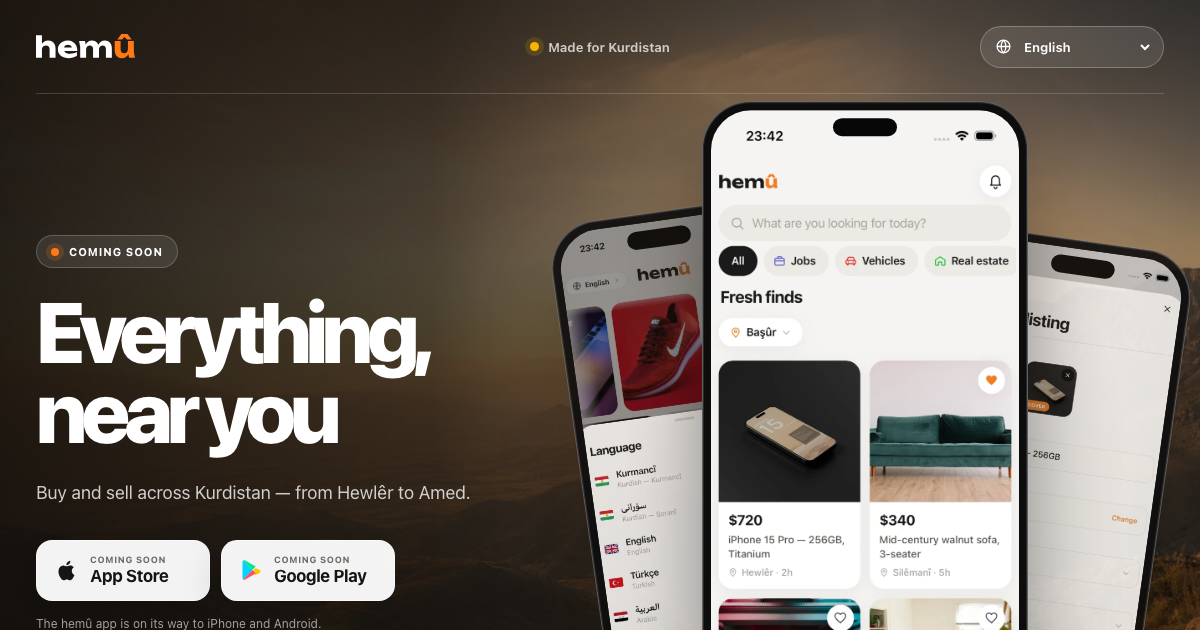
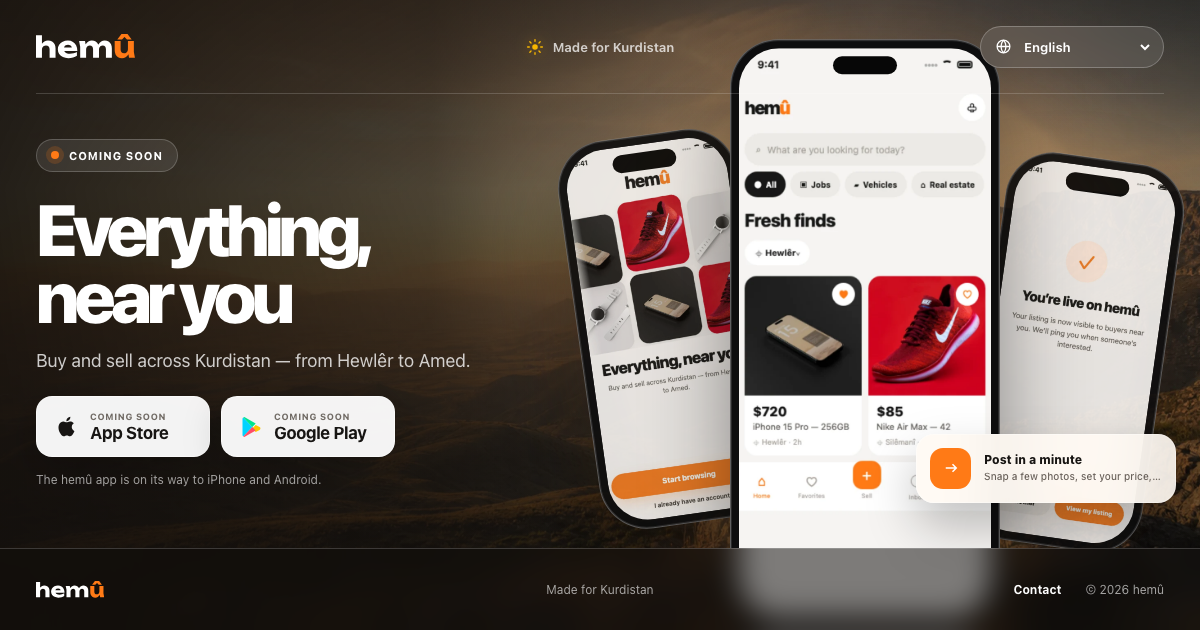
Localize app previews and fit landing page to viewport

diff --git a/src/styles.css b/src/styles.css
@@ -37,10 +37,12 @@ a { color: inherit; }
   margin-inline: auto;
 }
 
+.page,
+.page main { height: 100svh; overflow: hidden; }
+
 .hero {
   position: relative;
-  min-height: 850px;
-  height: max(100svh, 850px);
+  height: 100svh;
   overflow: hidden;
   isolation: isolate;
   color: #fff;
@@ -95,13 +97,7 @@ a { color: inherit; }
   font-weight: 650;
   color: rgba(255,255,255,.74);
 }
-.sun-mark {
-  width: 9px;
-  height: 9px;
-  border-radius: 50%;
-  background: #f6b600;
-  box-shadow: 0 0 0 5px rgba(246,182,0,.14);
-}
+.sun-icon { color: #f6b600; filter: drop-shadow(0 0 7px rgba(246,182,0,.45)); }
 
 .language-control {
   justify-self: end;
@@ -130,7 +126,7 @@ a { color: inherit; }
 .language-control:focus-within { outline: 2px solid var(--accent); outline-offset: 3px; }
 
 .hero-grid {
-  height: calc(100% - 94px - 62px);
+  height: calc(100% - 94px - 82px);
   display: grid;
   grid-template-columns: minmax(400px, .88fr) minmax(520px, 1.12fr);
   gap: clamp(20px, 5vw, 84px);
@@ -207,7 +203,7 @@ a { color: inherit; }
 .product-stage {
   position: relative;
   align-self: stretch;
-  min-height: 650px;
+  min-height: 0;
   direction: ltr;
   animation: stage-in 1.1s .2s cubic-bezier(.2,.7,.2,1) both;
 }
@@ -278,31 +274,24 @@ a { color: inherit; }
 .floating-card small { font-size: 12px; font-weight: 800; }
 .floating-card strong { display: block; overflow: hidden; color: #6a625b; font-size: 10px; line-height: 1.35; font-weight: 500; white-space: nowrap; text-overflow: ellipsis; }
 
-.category-ribbon {
+.hero-footer {
   position: absolute;
-  z-index: 6;
+  z-index: 8;
   inset-inline: 0;
   bottom: 0;
-  height: 62px;
-  overflow: hidden;
+  height: 82px;
   border-top: 1px solid rgba(255,255,255,.18);
-  background: rgba(14,12,10,.35);
+  background: rgba(14,12,10,.52);
   backdrop-filter: blur(15px);
 }
-.ribbon-track { width: max-content; height: 100%; display: flex; align-items: center; animation: ticker 32s linear infinite; }
-.ribbon-track span { display: inline-flex; align-items: center; gap: 12px; padding-inline: 28px; color: rgba(255,255,255,.82); font-size: 13px; font-weight: 700; white-space: nowrap; }
-.ribbon-track i { width: 6px; height: 6px; border-radius: 50%; background: var(--accent); }
-
-footer { background: #1b1815; color: rgba(255,255,255,.62); }
-.footer-inner { min-height: 112px; display: flex; align-items: center; justify-content: space-between; gap: 24px; font-size: 13px; }
+.footer-inner { height: 100%; display: grid; grid-template-columns: 1fr auto 1fr; align-items: center; gap: 24px; color: rgba(255,255,255,.62); font-size: 12px; }
 .footer-inner > div { display: flex; align-items: center; gap: 24px; }
+.footer-inner > div { justify-self: end; }
 .footer-inner a { color: #fff; text-decoration: none; font-weight: 700; }
 
 @keyframes landscape-in { from { opacity: 0; transform: scale(1.05); } }
 @keyframes copy-in { from { opacity: 0; transform: translateY(24px); } }
 @keyframes stage-in { from { opacity: 0; transform: translateY(34px) scale(.97); } }
-@keyframes ticker { to { transform: translateX(-50%); } }
-
 @media (max-width: 1120px) {
   .hero-grid { grid-template-columns: minmax(350px, .9fr) minmax(420px, 1.1fr); }
   .device-main { width: 290px; height: 630px; }
@@ -311,7 +300,7 @@ footer { background: #1b1815; color: rgba(255,255,255,.62); }
 }
 
 @media (max-width: 860px) {
-  .hero { min-height: 1080px; height: auto; }
+  .hero { height: 100svh; }
   .hero-landscape { object-position: 62% center; }
   .hero-wash,
   [dir="rtl"] .hero-wash {
@@ -320,17 +309,18 @@ footer { background: #1b1815; color: rgba(255,255,255,.62); }
   .nav { grid-template-columns: 1fr auto; height: 80px; }
   .nav-note { display: none; }
   .language-control select { max-width: 112px; }
-  .hero-grid { height: auto; grid-template-columns: 1fr; gap: 30px; padding: 64px 0 120px; }
+  .hero-grid { height: calc(100% - 80px - 92px); grid-template-columns: 1fr; grid-template-rows: auto 1fr; gap: 16px; padding: 38px 0 0; }
   .hero-copy { text-align: center; display: flex; flex-direction: column; align-items: center; }
   .hero h1 { max-width: 680px; font-size: clamp(52px, 12vw, 88px); }
   [dir="rtl"] .hero h1 { font-size: clamp(48px, 11vw, 76px); }
   .hero-subtitle { font-size: 18px; }
   .store-buttons { justify-content: center; }
-  .product-stage { min-height: 650px; width: min(100%, 650px); margin-inline: auto; }
+  .product-stage { min-height: 0; height: 100%; width: min(100%, 650px); margin-inline: auto; }
   .device-main { top: 48%; }
   .device-welcome { left: 4%; }
   .device-post { right: 4%; }
-  .floating-card { right: 2%; bottom: 8%; }
+  .floating-card { right: 2%; bottom: 3%; }
+  .hero-footer { height: 92px; }
 }
 
 @media (max-width: 560px) {
@@ -339,23 +329,35 @@ footer { background: #1b1815; color: rgba(255,255,255,.62); }
   .brand svg { width: 102px; height: auto; }
   .language-control { min-height: 39px; padding-inline: 11px 7px; }
   .language-control select { max-width: 92px; font-size: 12px; }
-  .hero { min-height: 1000px; }
-  .hero-grid { padding-top: 48px; gap: 22px; }
-  .launch-pill { margin-bottom: 19px; }
+  .hero-grid { height: calc(100% - 74px - 92px); padding-top: 25px; gap: 8px; }
+  .launch-pill { margin-bottom: 13px; padding: 7px 12px; }
   .hero h1 { font-size: clamp(49px, 15vw, 68px); }
   [dir="rtl"] .hero h1 { font-size: clamp(43px, 12.8vw, 60px); }
-  .hero-subtitle { margin-top: 20px; font-size: 16px; }
-  .store-buttons { gap: 8px; margin-top: 26px; width: 100%; }
-  .store-button { min-width: 0; flex: 1; padding-inline: 12px; }
+  .hero-subtitle { margin-top: 14px; font-size: 15px; line-height: 1.4; }
+  .store-buttons { gap: 8px; margin-top: 17px; width: 100%; }
+  .store-button { min-width: 0; min-height: 54px; flex: 1; padding: 8px 12px; }
   .store-button small { font-size: 8px; }
   .store-button strong { font-size: 14px; }
-  .availability { font-size: 11px; }
-  .product-stage { min-height: 565px; }
-  .device-main { width: 270px; height: 587px; top: 48%; }
+  .availability { display: none; }
+  .product-stage { min-height: 0; height: 100%; }
+  .device-main { width: 204px; height: 443px; top: 50%; }
   .device-back { display: none; }
-  .floating-card { right: -4px; bottom: 7%; width: 220px; }
-  .footer-inner { min-height: 160px; flex-wrap: wrap; padding-block: 30px; }
-  .footer-inner > span { width: 100%; order: 3; }
+  .device { padding: 6px; border-radius: 35px; }
+  .device img { border-radius: 29px; }
+  .device-speaker { top: 12px; width: 48px; height: 14px; }
+  .floating-card { right: 2px; bottom: 0; width: 205px; padding: 9px; }
+  .floating-icon { width: 35px; height: 35px; }
+  .footer-inner { grid-template-columns: 1fr auto; grid-template-rows: 1fr 1fr; gap: 0 16px; padding-block: 11px; }
+  .footer-inner > span { grid-column: 1; grid-row: 2; }
+  .footer-inner > div { grid-column: 2; grid-row: 1 / 3; flex-direction: column; align-items: flex-end; gap: 5px; }
+}
+
+@media (max-height: 760px) and (min-width: 861px) {
+  .hero h1 { font-size: clamp(54px, 6vw, 82px); }
+  .hero-subtitle { margin-top: 18px; }
+  .store-buttons { margin-top: 22px; }
+  .device-main { width: 270px; height: 587px; }
+  .device-back { width: 180px; height: 391px; }
 }
 
 @media (prefers-reduced-motion: reduce) {

diff --git a/src/App.tsx b/src/App.tsx
@@ -1,12 +1,36 @@
 import { useEffect, useState } from 'react';
 
 import landscape from './assets/showcase/kurdistan-landscape.webp';
-import homeScreen from './assets/showcase/home.webp';
-import postScreen from './assets/showcase/post.webp';
-import welcomeScreen from './assets/showcase/welcome.webp';
+import homeAr from './assets/screens/home-ar.webp';
+import homeCkb from './assets/screens/home-ckb.webp';
+import homeEn from './assets/screens/home-en.webp';
+import homeFa from './assets/screens/home-fa.webp';
+import homeKu from './assets/screens/home-ku.webp';
+import homeTr from './assets/screens/home-tr.webp';
+import onboardingAr from './assets/screens/onboarding-ar.webp';
+import onboardingCkb from './assets/screens/onboarding-ckb.webp';
+import onboardingEn from './assets/screens/onboarding-en.webp';
+import onboardingFa from './assets/screens/onboarding-fa.webp';
+import onboardingKu from './assets/screens/onboarding-ku.webp';
+import onboardingTr from './assets/screens/onboarding-tr.webp';
+import successAr from './assets/screens/success-ar.webp';
+import successCkb from './assets/screens/success-ckb.webp';
+import successEn from './assets/screens/success-en.webp';
+import successFa from './assets/screens/success-fa.webp';
+import successKu from './assets/screens/success-ku.webp';
+import successTr from './assets/screens/success-tr.webp';
 import { detectLang, LANGS, T } from './translations';
 import type { Lang } from './translations';
 import { Wordmark } from './Wordmark';
+
+const SCREENS: Record<Lang, { home: string; onboarding: string; success: string }> = {
+  en: { home: homeEn, onboarding: onboardingEn, success: successEn },
+  ckb: { home: homeCkb, onboarding: onboardingCkb, success: successCkb },
+  ku: { home: homeKu, onboarding: onboardingKu, success: successKu },
+  ar: { home: homeAr, onboarding: onboardingAr, success: successAr },
+  tr: { home: homeTr, onboarding: onboardingTr, success: successTr },
+  fa: { home: homeFa, onboarding: onboardingFa, success: successFa },
+};
 
 const AppleIcon = () => (
   <svg width="25" height="25" viewBox="0 0 24 24" fill="currentColor" aria-hidden="true">
@@ -27,6 +51,15 @@ const GlobeIcon = () => (
   <svg width="17" height="17" viewBox="0 0 24 24" fill="none" stroke="currentColor" strokeWidth="1.8" aria-hidden="true">
     <circle cx="12" cy="12" r="9" />
     <path d="M3 12h18M12 3c2.3 2.5 3.5 5.5 3.5 9S14.3 18.5 12 21M12 3C9.7 5.5 8.5 8.5 8.5 12s1.2 6.5 3.5 9" />
+  </svg>
+);
+
+const SunIcon = () => (
+  <svg className="sun-icon" width="18" height="18" viewBox="0 0 24 24" aria-hidden="true">
+    <circle cx="12" cy="12" r="3.7" fill="currentColor" />
+    <g fill="none" stroke="currentColor" strokeWidth="1.8" strokeLinecap="round">
+      <path d="M12 2.2v2.2M12 19.6v2.2M2.2 12h2.2M19.6 12h2.2M5.1 5.1l1.6 1.6M17.3 17.3l1.6 1.6M18.9 5.1l-1.6 1.6M6.7 17.3l-1.6 1.6" />
+    </g>
   </svg>
 );
 
@@ -57,12 +90,11 @@ function Device({ screen, className, label, eager = false }: { screen: string; c
   );
 }
 
-const CATEGORY_KEYS = ['jobs', 'vehicles', 'property', 'electronics', 'home', 'fashion'] as const;
-
 export default function App() {
   const [lang, setLang] = useState<Lang>(() => detectLang());
   const t = T[lang];
   const meta = LANGS[lang];
+  const screens = SCREENS[lang];
 
   useEffect(() => {
     document.documentElement.lang = meta.tag;
@@ -83,7 +115,7 @@ export default function App() {
               <Wordmark size={29} ink="#fff" accent="var(--accent)" />
             </a>
             <div className="nav-note">
-              <span className="sun-mark" />
+              <SunIcon />
               {t.madeFor}
             </div>
             <label className="language-control">
@@ -111,9 +143,9 @@ export default function App() {
 
             <div className="product-stage" aria-label="hemû app preview">
               <div className="stage-halo" />
-              <Device screen={welcomeScreen} className="device-back device-welcome" label="hemû language onboarding screen" />
-              <Device screen={postScreen} className="device-back device-post" label="hemû create listing screen" />
-              <Device screen={homeScreen} className="device-main" label="hemû marketplace home screen" eager />
+              <Device screen={screens.onboarding} className="device-back device-welcome" label={`hemû onboarding screen — ${meta.name}`} />
+              <Device screen={screens.success} className="device-back device-post" label={`hemû listing success screen — ${meta.name}`} />
+              <Device screen={screens.home} className="device-main" label={`hemû marketplace home screen — ${meta.name}`} eager />
               <div className="floating-card">
                 <span className="floating-icon"><ArrowIcon /></span>
                 <span><small>{t.features[2].title}</small><strong>{t.features[2].body}</strong></span>
@@ -121,24 +153,16 @@ export default function App() {
             </div>
           </div>
 
-          <div className="category-ribbon" aria-label={t.categoriesTitle}>
-            <div className="ribbon-track">
-              {[...CATEGORY_KEYS, ...CATEGORY_KEYS].map((key, index) => (
-                <span key={`${key}-${index}`}><i />{t.categories[key]}</span>
-              ))}
+          <footer className="hero-footer">
+            <div className="content-wide footer-inner">
+              <Wordmark size={20} ink="#fff" />
+              <span>{t.madeFor}</span>
+              <div><a href="mailto:[email redacted]">{t.contact}</a><span>© 2026 hemû</span></div>
             </div>
-          </div>
+          </footer>
         </section>
 
       </main>
-
-      <footer>
-        <div className="content-wide footer-inner">
-          <Wordmark size={22} ink="#fff" />
-          <span>{t.madeFor}</span>
-          <div><a href="mailto:[email redacted]">{t.contact}</a><span>© 2026 hemû</span></div>
-        </div>
-      </footer>
     </div>
   );
 }